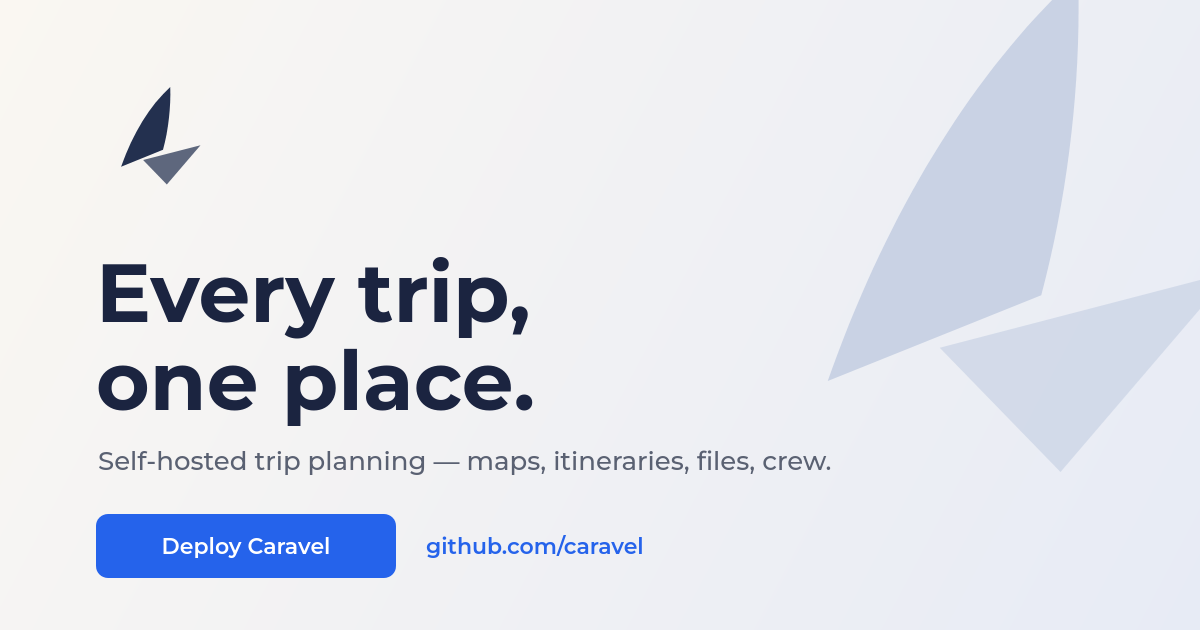
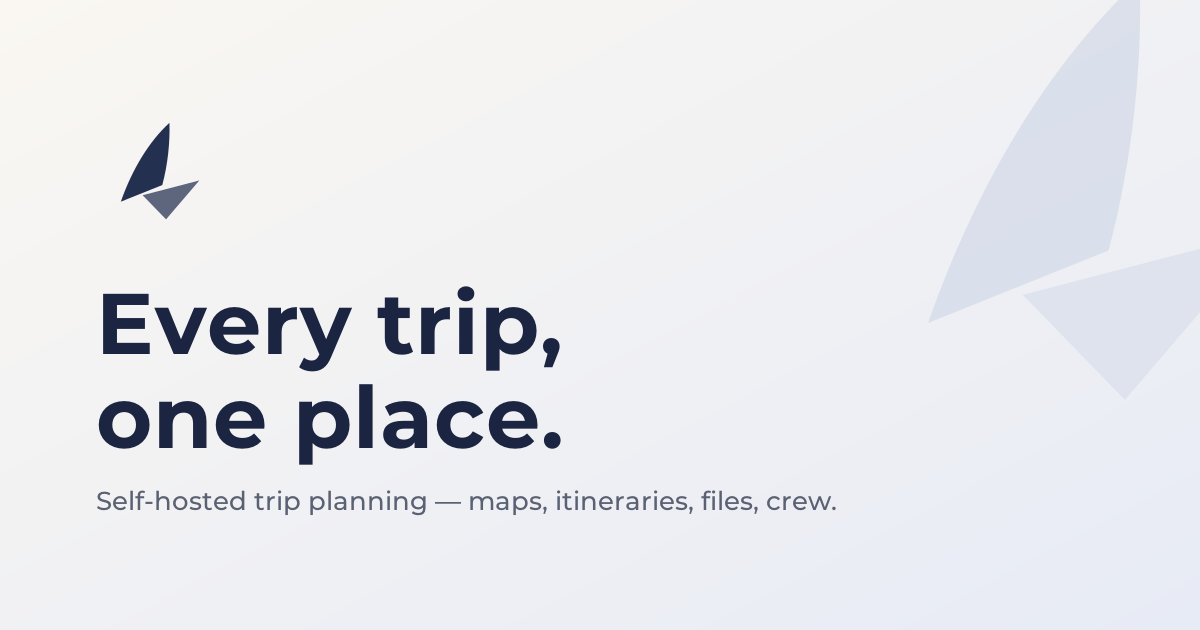
Social preview: a card for an instance, not an advert for the project
The card an instance served carried a blue "Deploy Caravel" button and a
project URL. That is the right card for the README and the documentation site,
where the reader has not got one yet, and the wrong one for the case it was
actually being served in: someone sharing a link to their own trip planner
should not be unfurling an advert telling the recipient to go install one.

So there are two now. og-card.png keeps the mark, the headline and the tagline
and drops the bottom row; og-card-cta.png is the previous card, kept under its
own name because it is still correct for the project's own pages. Both keep
their -light pair. Everything shifts down 24px in the plain one, a uniform
shift so the spacing the card was drawn with is untouched, which puts the block
back on the optical centre now that the bottom row is gone (116px above, 113
below). The tagline was also 2px right of the rest; it is on 96 with everything
else now.

Two fixes while in there. The CTA card said github.com/caravel, which is not
the repository -- it is lkiesow/caravel. And the README gained the render
recipe: these SVGs are hand-maintained originals with no generator, so the
cairosvg one-liner and its Montserrat requirement are now written down instead
of reconstructed. Not quantised, deliberately, and the README says why: the
grounds are diagonal gradients and pngquant bands them visibly. The renders are
64KB against the previous 104KB regardless.
[…]

diff --git a/docs/assets/brand/README.md b/docs/assets/brand/README.md
@@ -21,11 +21,23 @@ geometry so every raster size and `web/icons/favicon.svg` come from one source.
 
 | Location | Holds | Used by |
 | --- | --- | --- |
-| `web/brand/` | `mark.svg` (inherits CSS `color`), the two horizontal lockups | the app, inline and by `<img>` |
+| `web/brand/` | `mark.svg` (inherits CSS `color`), the two horizontal lockups, `og-card.png` | the app, inline and by `<img>`; the card by scrapers |
 | `web/icons/` | favicons, apple-touch, PWA and maskable icons | the browser and the installed app; **generated**, do not hand-edit |
 | `docs/assets/brand/` | lockups, banner, OG cards, the navy/cream marks | the documentation site and the README |
 
-Social cards must be PNG: scrapers reject SVG.
+Social cards must be PNG: scrapers reject SVG, and the URL must be absolute --
+Facebook, LinkedIn and Discord drop an image they cannot resolve on their own.
+The app substitutes its own origin into the shell for that; see
+`internal/httpapi/staticassets.go`.
+
+There are two OG cards, and the difference is the audience:
+
+| Card | Says | For |
+| --- | --- | --- |
+| `og-card.png` | mark, headline, tagline | **an instance** -- what `web/index.html` serves. Someone sharing a link to their own trip planner should not be unfurling an advert to go install one |
+| `og-card-cta.png` | the above plus a "Deploy Caravel" button and the project URL | **the project** -- the README and the documentation site, where the reader has not got one yet |
+
+Both have a `-light` pair.
 
 ## Type
 
@@ -62,3 +74,28 @@ the alternate blue tile from the original set — unused, kept as the option it
 was drawn to be.
 
 `web/icons/` is *not* in this list: it comes out of `scripts/gen_icons.py`.
+
+## Re-rendering a PNG from its SVG
+
+There is no generator for these -- unlike `web/icons/`, the `src/` SVGs are the
+hand-maintained originals. Edit one, then render it at its own dimensions:
+
+```
+python3 -c "import cairosvg; cairosvg.svg2png(
+    url='docs/assets/brand/src/og-card.svg',
+    write_to='docs/assets/brand/og-card.png',
+    output_width=1200, output_height=630)"
+```
+
+Needs `cairosvg`, and Montserrat installed system-wide for the `<text>` to come
+out in the right face (`julietaula-montserrat-fonts` on Fedora) -- cairosvg
+resolves it through fontconfig, and silently substitutes the platform sans if it
+is missing, so check the render rather than trusting the exit code.
+
+Not quantised with `pngquant`, deliberately: the grounds are diagonal gradients
+and 256 colours bands them visibly. These files are well under any scraper size
+limit as they are.
+
+The app serves its own copy of the instance card at `web/brand/og-card.png` --
+copy it across after re-rendering. No cache version to bump: `assetTreeFingerprint`
+notices the file changed and re-keys the service worker on its own.

diff --git a/plans/todo.md b/plans/todo.md
@@ -377,3 +377,11 @@ else runs this.
 - **OpenID Connect / external auth providers.** `auth_identities` already
   supports a `provider` column beyond `'local'` for exactly this; no provider
   integration exists yet.
+- **The documentation site has no social preview.** (Surfaced fixing the app's,
+  Aug 2026.) `zensical.toml` sets `site_description` and `site_url` but nothing
+  emits `og:image`, so a link to the project site previews as bare text the way
+  a link to an instance used to. Easier than the app's was: `site_url` is a
+  fixed absolute URL, so the tags can be written literally into
+  `overrides/home.html` with no substitution. Use `og-card-cta.png` --
+  `docs/assets/brand/README.md` explains why that is the right one of the two
+  there and the plain card is the right one in the app.
